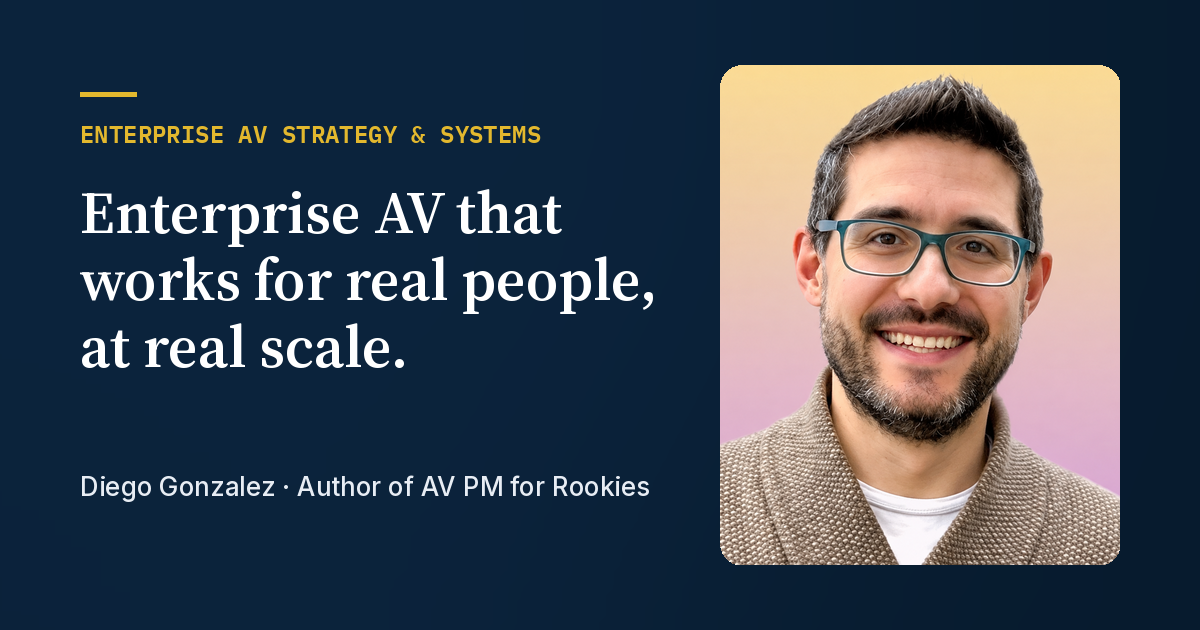
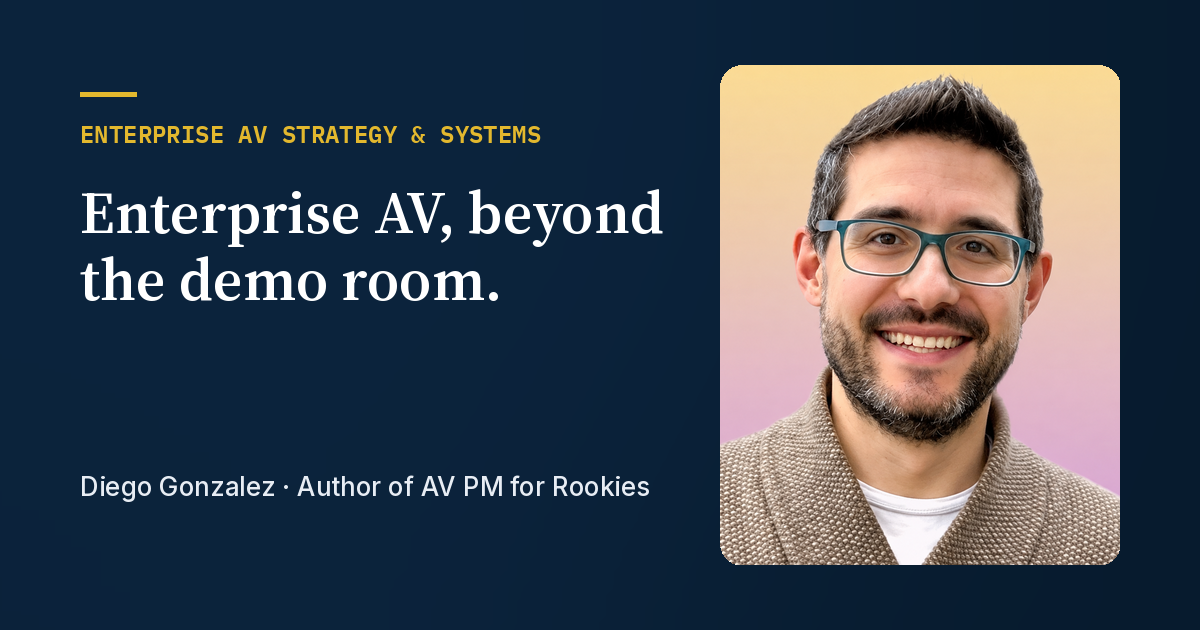
Editorial hierarchy: insights first, new hero, collaboration

Changed region(s): [[0.0617, 0.3016, 0.555, 0.5127], [0.0617, 0.5127, 0.3392, 0.6032]]

diff --git a/src/styles/site.css b/src/styles/site.css
@@ -195,6 +195,31 @@ hr { border: 0; border-top: 1px solid var(--line); margin: 2rem 0; }
 .insight-feature .link-arrow { color: var(--gold); }
 .insight-feature:hover .link-arrow::after { transform: translateX(3px); }
 .avweek { margin: -6px 0 24px; font-size: .95rem; color: var(--ink-2); }
+/* Latest idea + published article (home) */
+.insights-top { display: grid; grid-template-columns: minmax(0, 1.35fr) minmax(0, 1fr); gap: 20px; margin-bottom: 20px; }
+.latest { display: flex; flex-direction: column; background: var(--surface); border: 1px solid var(--line-2); border-radius: var(--radius); overflow: hidden; text-decoration: none; color: var(--ink); transition: border-color .15s, box-shadow .15s; }
+.latest:hover { border-color: var(--navy-700); box-shadow: var(--shadow-2); color: var(--ink); }
+.latest__img { width: 100%; aspect-ratio: 16 / 9; object-fit: cover; background: var(--paper-2); }
+.latest__body { padding: clamp(24px, 3.4vw, 40px); display: flex; flex-direction: column; flex: 1; }
+.latest h3 { font: 600 clamp(1.6rem, 2.8vw, 2.25rem)/1.15 var(--serif); margin: 14px 0 16px; }
+.latest blockquote { margin: 0 0 16px; padding-left: 16px; border-left: 3px solid var(--gold); font: italic 500 clamp(1.1rem, 1.6vw, 1.3rem)/1.45 var(--serif); color: var(--navy-900); }
+.latest p { color: var(--ink-2); flex: 1; }
+.latest .tag b { color: var(--gold-ink); }
+.published { display: flex; flex-direction: column; background: var(--navy-950); border-radius: var(--radius); overflow: hidden; }
+.published__link { display: flex; flex-direction: column; flex: 1; padding: clamp(24px, 3.4vw, 36px); color: var(--on-dark); text-decoration: none; }
+.published__link:hover { color: var(--on-dark); }
+.published__link:hover .link-arrow::after { transform: translateX(3px); }
+.published h3 { font: 600 clamp(1.3rem, 2vw, 1.6rem)/1.2 var(--serif); color: #fff; margin: 14px 0 14px; }
+.published blockquote { margin: 0 0 18px; font: italic 500 1.05rem/1.5 var(--serif); color: var(--on-dark-2); flex: 1; }
+.published .tag, .published .tag b, .published .link-arrow { color: var(--gold); }
+.published__note { margin: 0; padding: 14px clamp(24px, 3.4vw, 36px); border-top: 1px solid rgba(255,255,255,.08); font-size: .88rem; color: var(--on-dark-2); }
+.published__note a { color: #fff; }
+.insight-card time { color: var(--ink-3); font-size: .82rem; white-space: nowrap; }
+/* Collaboration (single, understated) */
+.collab { display: grid; grid-template-columns: minmax(0, 1fr) minmax(0, 1.4fr); gap: clamp(24px, 5vw, 72px); align-items: start; }
+.collab h2 { margin: 0; }
+.collab .lede { color: var(--ink); margin-bottom: 12px; }
+.collab .contact-band__ctas { margin-top: 22px; }
 .insight-grid { display: grid; grid-template-columns: repeat(auto-fill, minmax(min(100%, 320px), 1fr)); gap: 20px; }
 .insight-card { display: flex; flex-direction: column; background: var(--surface); border: 1px solid var(--line-2); border-radius: var(--radius); padding: 26px; text-decoration: none; color: var(--ink); transition: border-color .15s, box-shadow .15s; }
 .insight-card:hover { border-color: var(--navy-700); box-shadow: var(--shadow-2); color: var(--ink); }
@@ -428,7 +453,7 @@ input[type="range"]:focus-visible::-moz-range-thumb { box-shadow: 0 0 0 4px rgba
   .nav a { padding: 14px 4px; border-bottom: 1px solid var(--line-2); border-radius: 0; font-size: 1.02rem; }
   .nav a[aria-current="page"]:not(.btn) { box-shadow: inset 3px 0 0 var(--gold); padding-left: 12px; }
   .nav .btn { margin: 16px 0 0; justify-content: center; border-bottom: 0; border-radius: 999px; }
-  .hero__grid, .book, .about-grid, .tool-info, .insight-feature { grid-template-columns: 1fr; }
+  .hero__grid, .book, .about-grid, .tool-info, .insight-feature, .insights-top, .collab { grid-template-columns: 1fr; }
   .portrait { justify-self: start; width: min(360px, 100%); order: -1; }
   .hero .portrait { width: 148px; }
   .hero .portrait picture, .hero .portrait img { border-radius: 14px; }

diff --git a/scripts/make_og.py b/scripts/make_og.py
@@ -59,7 +59,7 @@ por = Image.open(ROOT / "_source/Diego_Profile_ORIGINAL.png").convert("RGB")
 por = por.crop((214, 40, 214 + 880, 40 + 1100)).resize((400, 500), Image.LANCZOS)
 mask = Image.new("L", por.size, 0); ImageDraw.Draw(mask).rounded_rectangle((0, 0, *por.size), 22, fill=255)
 im.paste(por, (W - 80 - 400, 65), mask)
-headline(d, "Enterprise AV Strategy & Systems", "Enterprise AV that works for real people, at real scale.", None, width=600, size=60)
+headline(d, "Enterprise AV Strategy & Systems", "Enterprise AV, beyond the demo room.", None, width=600, size=60)
 d.text((80, 470), "Diego Gonzalez · Author of AV PM for Rookies", font=F(SANS, 26, 500), fill=(232, 237, 244))
 im.save(OG / "og-home.png", optimize=True)
 

diff --git a/README.md b/README.md
@@ -17,7 +17,26 @@ Static site, zero runtime dependencies, built by a ~100-line Node script and dep
 
 Browser QA of every tool control: copy `tests/browser/qa.html` to `dist/_qa.html`, run `npm run serve`, open http://localhost:8080/_qa.html (results appear on the page; delete the file afterwards).
 
-Then: `npm run check` (build + 36 tests) → `npm run serve` → open http://localhost:8080 → commit and push. GitHub Actions builds, tests and deploys; a failing test blocks the deploy.
+Then: `npm run check` (build + 37 tests) → `npm run serve` → open http://localhost:8080 → commit and push. GitHub Actions builds, tests and deploys; a failing test blocks the deploy.
+
+## Publishing a new insight (e.g. the Tuesday post)
+1. Save the visual (optional) as `assets/insights/<short-name>.jpg` (16:9 works best, ~1600 px wide).
+2. Create `content/insights/NN-short-name.md`:
+```
+---
+title: Everybody wants more of the room
+kind: linkedin
+source: LinkedIn
+date: 2026-11-24
+url: https://www.linkedin.com/feed/update/urn:li:activity:XXXXXXXXXXXXXXXXXXX/
+topic: Experience
+image: /assets/insights/short-name.jpg
+imageAlt: One-line description of the visual
+quote: Optional memorable line (shown only when there is no image)
+summary: Two lines that make someone want to read it.
+---
+```
+3. `npm run check` → commit → push. The newest dated item becomes **Latest idea** on the home page automatically; the AV Magazine piece stays alongside as **Published in AV Magazine** (`featured: true`).
 
 ## Structure
 ```

diff --git a/content/insights/06-global-standards.md b/content/insights/06-global-standards.md
@@ -2,6 +2,7 @@
 title: Global standards need controlled choices, not one SKU everywhere
 kind: linkedin
 source: LinkedIn
+date: 2026-10-20
 url: https://www.linkedin.com/feed/update/urn:li:activity:7518208354285166594/
 order: 6
 topic: Standards

diff --git a/content/insights/02-variations.md b/content/insights/02-variations.md
@@ -2,6 +2,7 @@
 title: A variation looks different from each side of the table
 kind: linkedin
 source: LinkedIn
+date: 2026-10-13
 url: https://www.linkedin.com/feed/update/urn:li:activity:7515671887797149696/
 order: 2
 topic: Delivery

diff --git a/content/insights/03-demo-vs-production.md b/content/insights/03-demo-vs-production.md
@@ -2,6 +2,7 @@
 title: A good demo is not a production-ready product
 kind: linkedin
 source: LinkedIn
+date: 2026-10-27
 url: https://www.linkedin.com/feed/update/urn:li:activity:7520760235779846144/
 order: 3
 topic: Product

diff --git a/content/insights/05-user-guides.md b/content/insights/05-user-guides.md
@@ -2,6 +2,7 @@
 title: When the user guide is a confession
 kind: linkedin
 source: LinkedIn
+date: 2026-11-03
 url: https://www.linkedin.com/feed/update/urn:li:activity:7523296732647190528/
 order: 5
 topic: User experience

diff --git a/content/insights/04-firmware.md b/content/insights/04-firmware.md
@@ -2,6 +2,7 @@
 title: “It’s only a firmware update”
 kind: linkedin
 source: LinkedIn
+date: 2026-11-17
 url: https://www.linkedin.com/feed/update/urn:li:activity:7528370175084056577/
 order: 4
 topic: Operations
